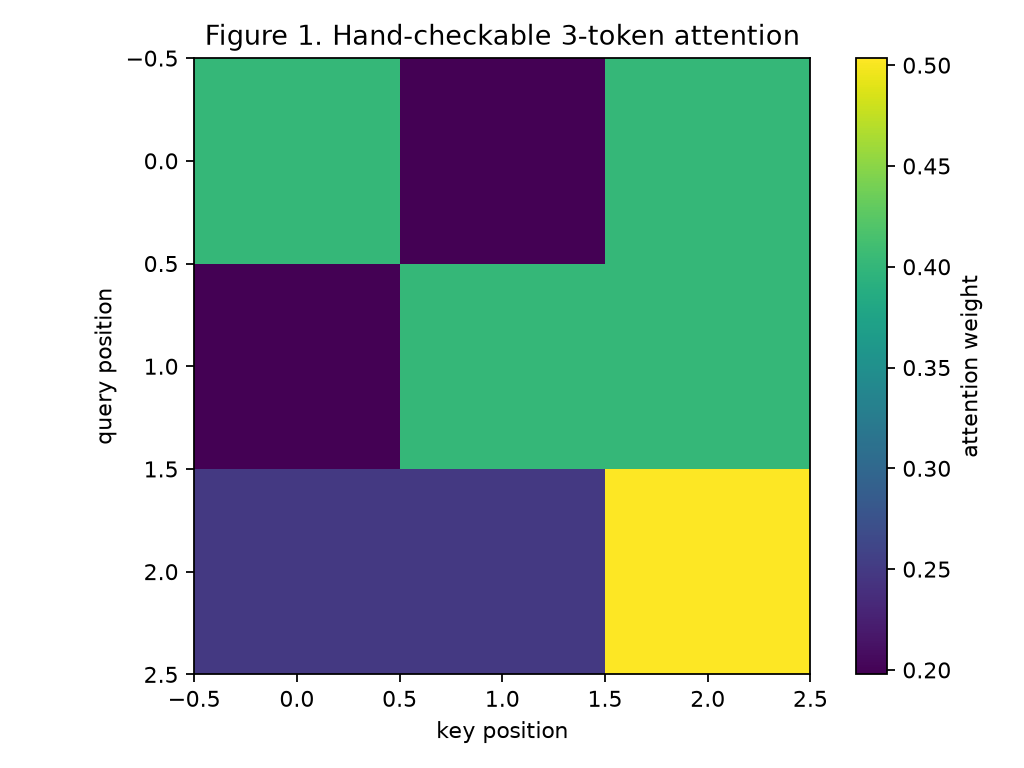
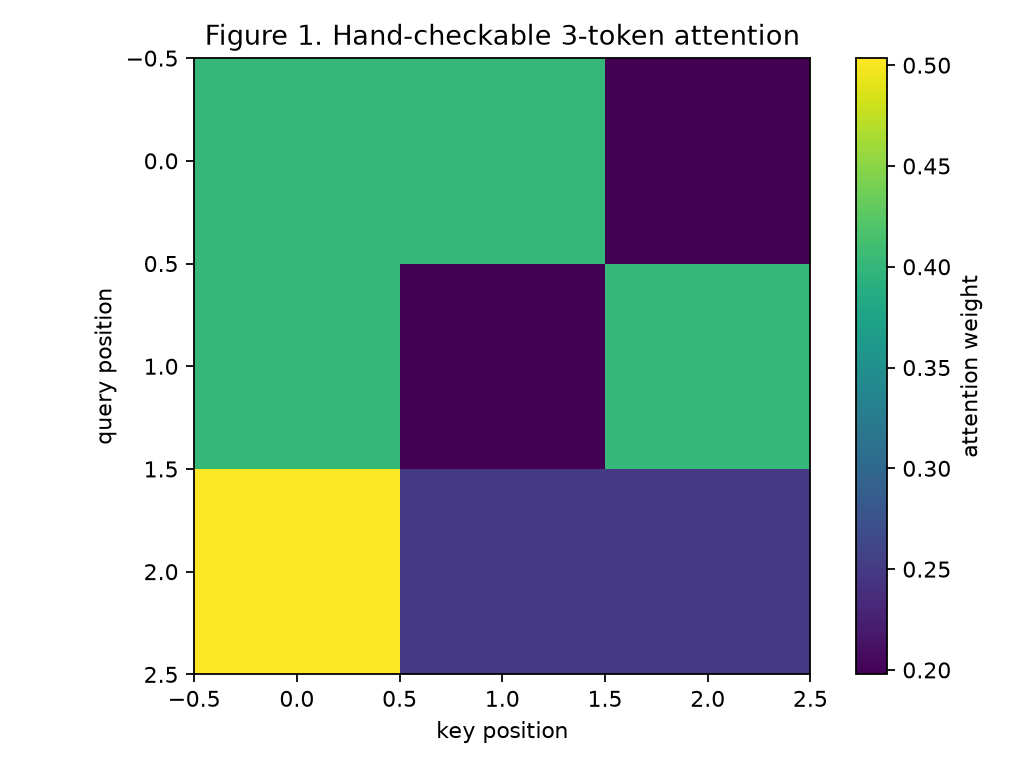
Apply instructor clarification choices

diff --git a/1st_Semester/DNN/2nd Assignment/2024SAMPLE_DNN_Assignment/problem2/problem2.py b/1st_Semester/DNN/2nd Assignment/2024SAMPLE_DNN_Assignment/problem2/problem2.py
@@ -22,12 +22,14 @@ from src.training import count_parameters
 
 def hand_check_attention():
     q = torch.tensor([[[1.0, 0.0], [0.0, 1.0], [1.0, 1.0]]])
-    out, weights = scaled_dot_product_attention(q, q, q)
+    k = torch.tensor([[[1.0, 1.0], [1.0, 0.0], [0.0, 1.0]]])
+    v = torch.tensor([[[1.0, 2.0], [3.0, 4.0], [5.0, 6.0]]])
+    out, weights = scaled_dot_product_attention(q, k, v)
     assert torch.allclose(weights.sum(-1), torch.ones(1, 3), atol=1e-6)
-    reference = torch.nn.functional.scaled_dot_product_attention(q, q, q)
+    reference = torch.nn.functional.scaled_dot_product_attention(q, k, v)
     assert torch.allclose(out, reference, atol=1e-5)
     causal = torch.tril(torch.ones(3, 3, dtype=torch.bool))
-    _, causal_weights = scaled_dot_product_attention(q, q, q, causal)
+    _, causal_weights = scaled_dot_product_attention(q, k, v, causal)
     assert torch.equal(
         causal_weights.masked_select(~causal),
         torch.zeros_like(causal_weights.masked_select(~causal)),
@@ -36,12 +38,14 @@ def hand_check_attention():
 
 
 def hand_attention_table():
-    """Return the hand-computed 3-token scores, weights, and output."""
+    """Return hand-computed scores, weights, and output for explicit Q/K/V."""
     q = torch.tensor([[1.0, 0.0], [0.0, 1.0], [1.0, 1.0]])
-    scores = q @ q.T / math.sqrt(2.0)
+    k = torch.tensor([[1.0, 1.0], [1.0, 0.0], [0.0, 1.0]])
+    v = torch.tensor([[1.0, 2.0], [3.0, 4.0], [5.0, 6.0]])
+    scores = q @ k.T / math.sqrt(2.0)
     weights = torch.softmax(scores, dim=-1)
-    output = weights @ q
-    return scores, weights, output
+    output = weights @ v
+    return q, k, v, scores, weights, output
 
 
 def plot_hand_check(path):

diff --git a/1st_Semester/DNN/2nd Assignment/2024SAMPLE_DNN_Assignment/README.md b/1st_Semester/DNN/2nd Assignment/2024SAMPLE_DNN_Assignment/README.md
@@ -3,9 +3,11 @@
 Student: **Souvik Dutta**
 Student ID: **2026AJ05991**
 
-This sample uses the documented fallback variant because no individualisation
-table was supplied: hidden size `64`, Transformer width `128`, seeds
-`42, 43, 44`, and the even-ID gradient-clipping ablation.
+Chosen configuration (per the instructor clarification): Problem 1 hidden size
+`h=64`, Problem 2 model width `d=128` with 4 heads, and seeds `42, 43, 44`.
+The individual ablation is gradient clipping for the vanilla RNN at `T=200`;
+this choice is used because the variants table and its ID-based instruction
+were explicitly withdrawn.
 
 ## Environment and run order
 
@@ -31,9 +33,9 @@ session can be resumed. The generated samples are written to
 ## Reproducibility and assumptions
 
 All Python, NumPy and PyTorch seeds are fixed. HAR validation is subject-wise
-and statistics are fit on the training subjects only. The sample defaults above
-replace the missing variant table; change them in `src/config.py` if an
-instructor variant is later provided.
+and statistics are fit on the training subjects only. The selected values are
+declared here and in the report title block, and must be retained when
+reproducing the results.
 
 The report must be completed from the generated tables and figures. The
 assignment's academic-integrity requirement is preserved in the report's

diff --git a/1st_Semester/DNN/2nd Assignment/2024SAMPLE_DNN_Assignment/report.md b/1st_Semester/DNN/2nd Assignment/2024SAMPLE_DNN_Assignment/report.md
@@ -10,6 +10,11 @@ figure reference.
 **DNN Programming Assignment 2 - RNN, LSTM, GRU and Transformer**  
 Name: **Souvik Dutta**  Student ID: **2026AJ05991**
 
+Chosen configuration: `h=64`, `d=128`, heads `=4`, seeds `42, 43, 44`.
+The individual `T=200` ablation is vanilla-RNN gradient clipping at norm 1.0
+versus no clipping. These are deliberate choices under the instructor's
+clarification that the variants table and ID lookup are withdrawn.
+
 ## Problem 1
 
 Current repository evidence status: the adding-problem fast CPU matrix and
@@ -33,7 +38,9 @@ generated in the repository. The language-model run did not finish within the
 available CPU run window; therefore `generated_samples.txt` remains explicitly
 labelled as pending rather than containing fabricated text.
 
-Include the hand-checkable attention example, unit-test assertions, parameter
+Include the chosen `Q`, `K`, and `V` matrices, the hand-computed scaled
+dot-product scores/softmax/output, and the matching code output. Include the
+hand-checkable attention example, unit-test assertions, parameter
 derivation, encoder-block details and HAR positional-encoding comparison.
 Report the Tiny Shakespeare learning curve, validation loss and bits per
 character, then discuss the three generated temperatures. Include two
